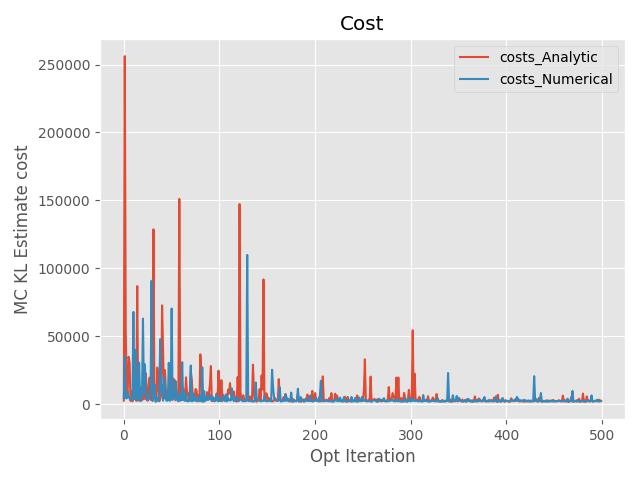
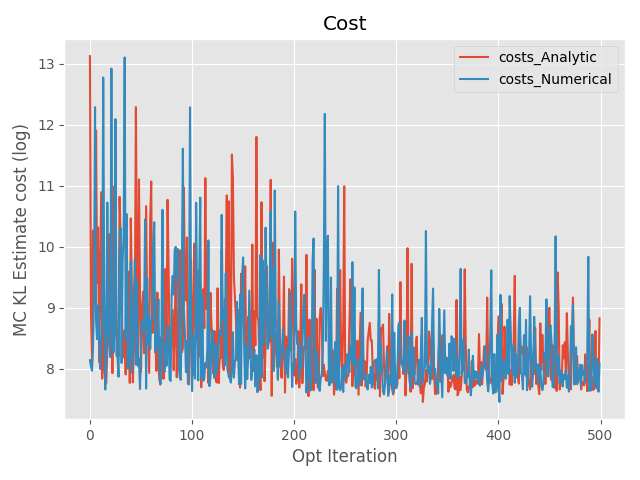
bugs fixed

diff --git a/python/tf_vb_glm_pred.py b/python/tf_vb_glm_pred.py
@@ -134,10 +134,10 @@ def define_vd_hb(f):
 
 def Numerical(distq, distp):
     MC= []
-    for i in range(1000):
-        M = 1000
-        xsamp  = distq.sample(M)
-        MC.append(tf.reduce_mean(distq.log_prob(xsamp) - distp.log_prob(xsamp)).numpy())
+    #for i in range(1000):
+    M = 1000
+    xsamp  = distq.sample(M)
+    MC.append(tf.reduce_mean(distq.log_prob(xsamp) - distp.log_prob(xsamp)).numpy())
     return np.array(MC).mean()
 
 def optimization(features, labels , methods):
@@ -204,7 +204,9 @@ def get_rmse(state,priors_dis_ub,vd_dis_ub, priors_dis_hb='LogNormal' ,vd_dis_hb
 
     # only 1 member, which is too few to split into two datasets
     onlyone = list(df.county_code.value_counts()[df.county_code.value_counts().values<2].index)
-    df = df[~df.county_code.isin(onlyone)]
+    df.loc[df.county_code.isin(onlyone),'county_code']= None
+    df.county_code = pd.factorize(df.county_code)[0]
+    df = df[df.county_code!=-1]
     train, test_df  = train_test_split(df, test_size=0.33, random_state=42, stratify=df['county_code'])
     # Split your dataset 
     df = train
@@ -263,10 +265,10 @@ def get_rmse(state,priors_dis_ub,vd_dis_ub, priors_dis_hb='LogNormal' ,vd_dis_hb
 
 def plot(state, type, costs_Analytic,costs_Numerical):
     fig = plt.figure()
-    plt.plot(costs_Analytic,label='costs_Analytic')
-    plt.plot(costs_Numerical,label='costs_Numerical')
+    plt.plot(np.log(costs_Analytic),label='costs_Analytical')
+    plt.plot(np.log(costs_Numerical),label='costs_Numerical')
     plt.xlabel("Opt Iteration")
-    plt.ylabel("MC KL Estimate cost")
+    plt.ylabel("MC KL Estimate cost (log)")
     plt.title("Cost")
     plt.tight_layout()
     plt.legend()
@@ -275,7 +277,6 @@ def plot(state, type, costs_Analytic,costs_Numerical):
 
 def main():
     states = ['AZ','IN','MA','MN','MO','ND','PA','R5']
-    #ormal_Normal, Laplace_Normal, Laplace_Laplace,Normal_Laplace =[],[],[],[]
     costs_Analytic, costs_Numerical = [],[]
     ana, num  = [],[]
     rmses_ana, rmses_num=[],[]
@@ -296,12 +297,13 @@ def main():
     print(rmses_num)
 if __name__ == "__main__":
     main()
-    ## Normal_Normal [1.61670902 0.85707389]
-    ## Laplace_Normal [1.66832714 0.92831952]
-    ## Laplace_Laplace [1.81323501 0.54589325]
-    ## Normal_Laplace [1.8231979  0.59325365]
-    #main('Numerical')
-    ## Normal_Normal [1.81004676 0.77254388]
-    ## Laplace_Normal [1.81842293 0.78807695]
-    ## Laplace_Laplace [2.0874171  0.71705861]
-    ## Normal_Laplace [2.25884796 0.44301045]
+    ### Analytical:
+    # Normal_Normal [1.18895699, 0.00566967, 0.92590185]
+    # Normal_Laplace [1.29223942, 0.00797647, 0.91786626]
+    # Laplace_Normal [1.24202765, 0.00677024, 0.928264  ]
+    # Laplace_Laplace [1.28016992, 0.00759832, 0.90858622]
+    ### Numerical:
+    # Normal_Normal [1.20296809, 0.0056556 , 0.96932259]
+    # Normal_Laplace [1.28308009, 0.00780365, 0.92496111]
+    # Laplace_Normal [1.25467479, 0.00707951, 0.92703341]
+    # Laplace_Laplace [1.29759791, 0.0080749 , 0.91771574]
